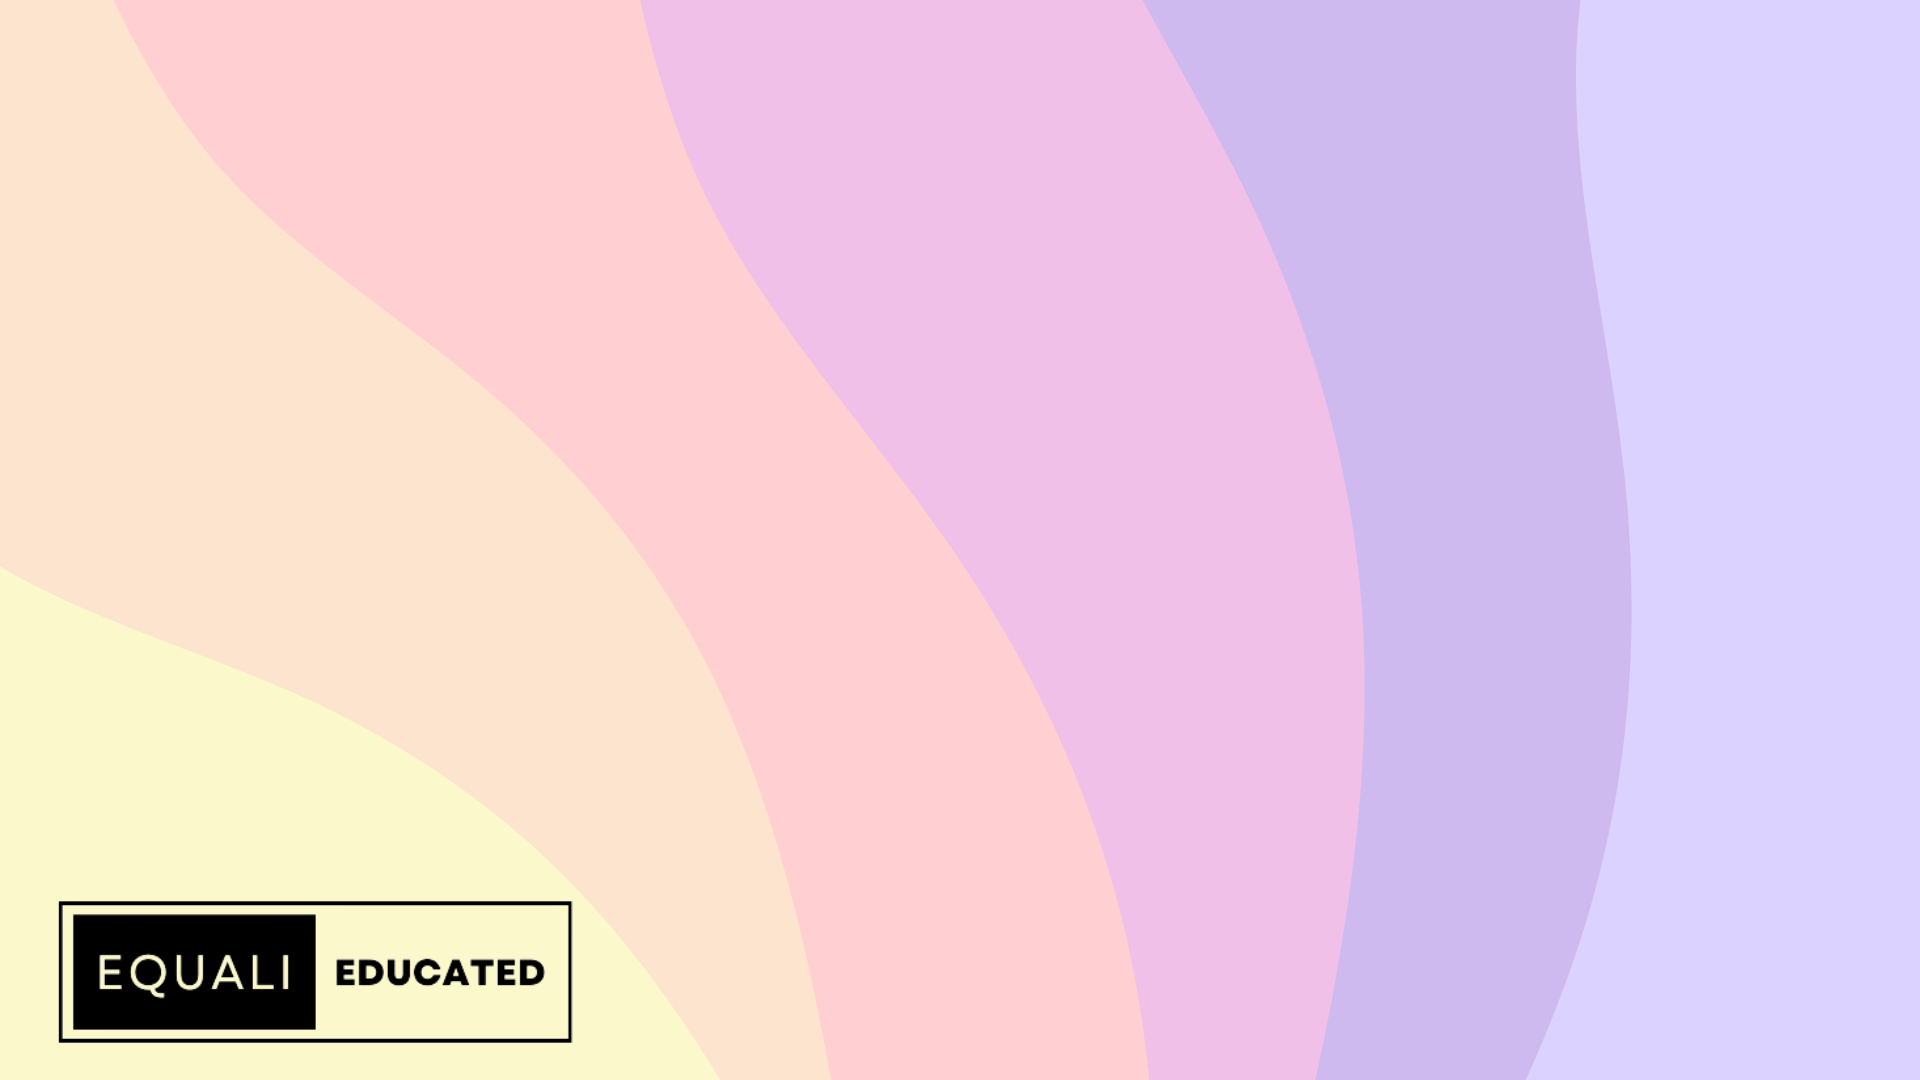
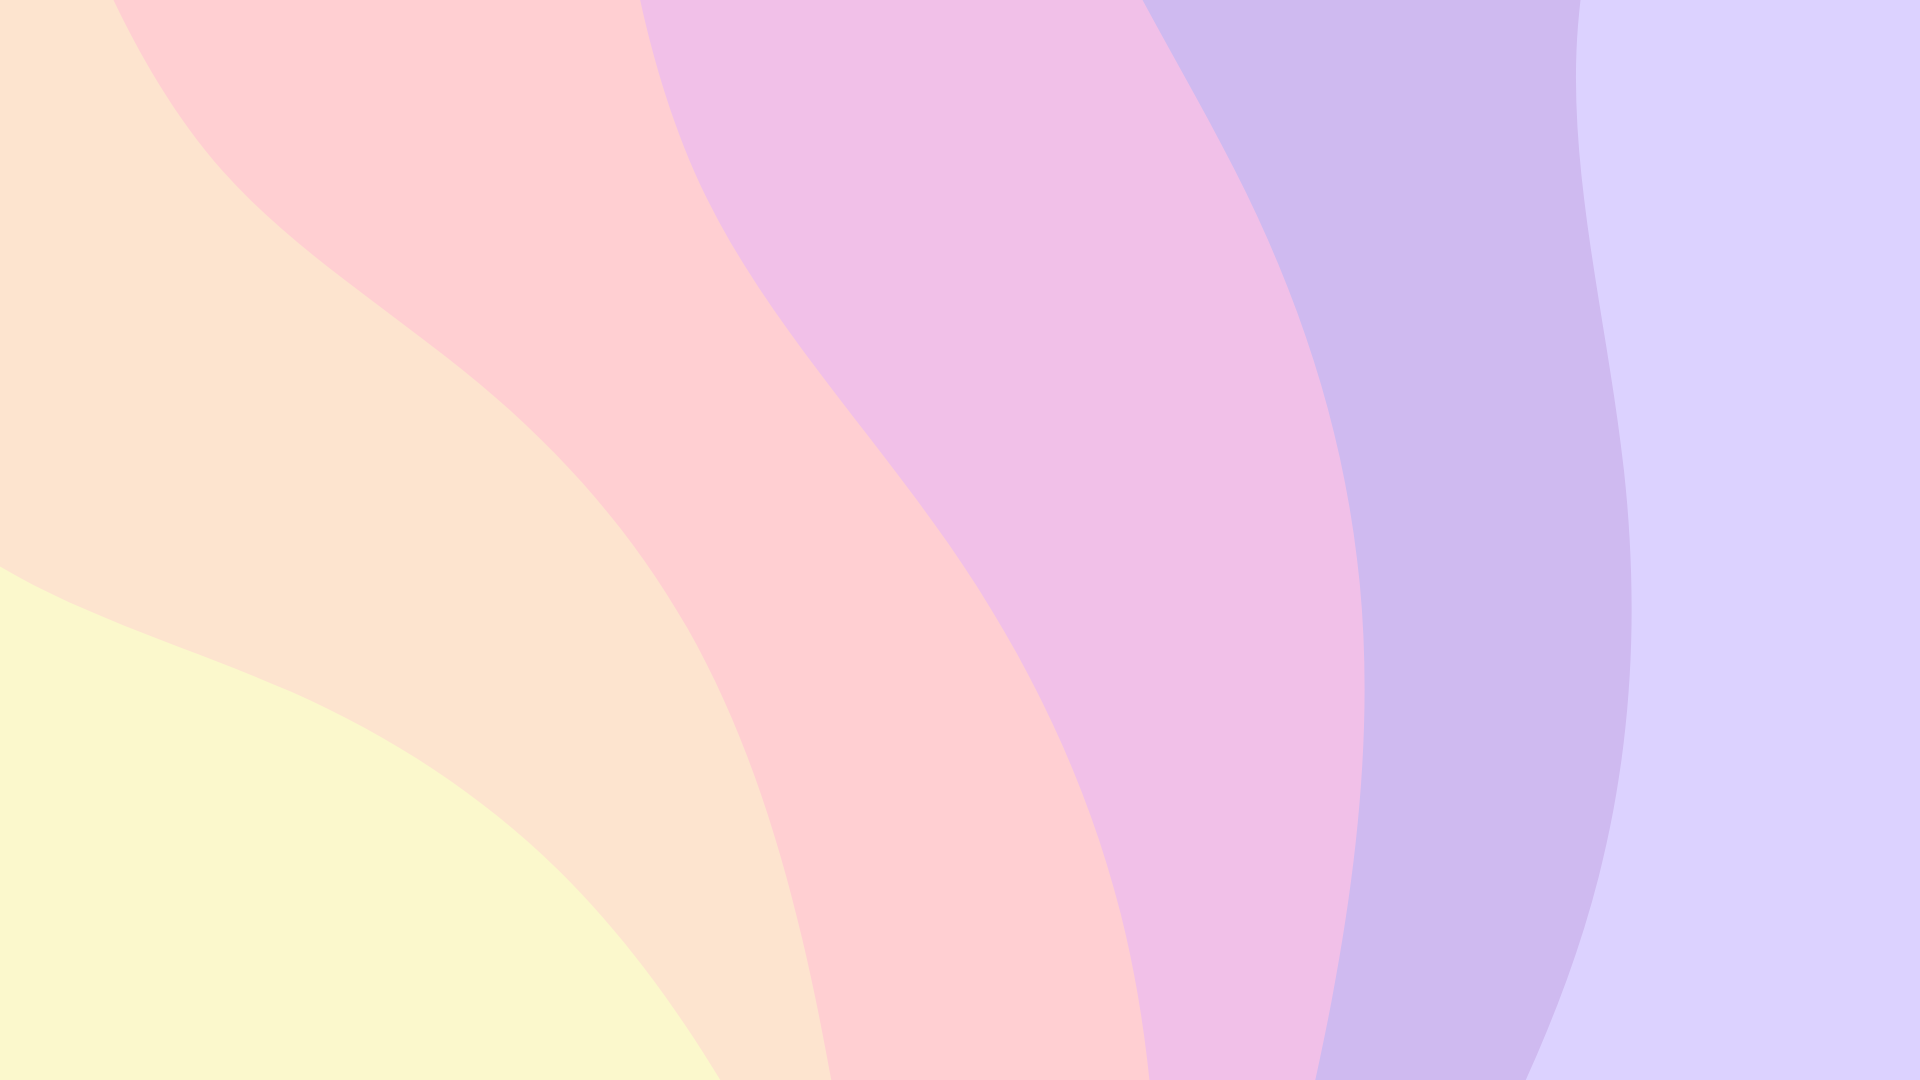
Added background images

Changed region(s): [[0.0312, 0.825, 0.3125, 0.9778]]

diff --git a/src/main/webapp/css/cover.css b/src/main/webapp/css/cover.css
@@ -15,12 +15,14 @@ a, a:focus, a:hover {
 html, body {
   height: 100%;
   background-color: #ccc;
+  background-image: url('../images/hover.png');
+  background-size: cover;
+  background-repeat: no-repeat;
 }
 
 body {
   color: #000;
   text-align: center;
-  text-shadow: 0 1px 3px rgba(0, 0, 0, .5);
 }
 
 /* Extra markup and styles for table-esque vertical and horizontal centering */
@@ -68,7 +70,6 @@ body {
   font-size: 16px;
   font-weight: bold;
   color: #000; /* IE8 proofing */
-  color: rgba(0, 0, 0, .75);
   border-bottom: 2px solid transparent;
 }
 

diff --git a/src/main/webapp/css/profile.css b/src/main/webapp/css/profile.css
@@ -1,0 +1,18 @@
+.profile-head {
+  transform: translateY(5rem)
+}
+
+.cover {
+  background-image: url(https://images.unsplash.com/photo-1530305408560-82d13781b33a?ixlib=rb-1.2.1&ixid=eyJhcHBfaWQiOjEyMDd9&auto=format&fit=crop&w=1352&q=80);
+  background-size: cover;
+  background-repeat: no-repeat;
+  height: 150px;
+}
+
+html, body {
+  height: 100%;
+  background-color: #ccc;
+  background-image: url('../images/profile.png');
+  background-size: cover;
+  background-repeat: no-repeat;
+}

diff --git a/src/main/webapp/css/header.css b/src/main/webapp/css/header.css
@@ -1,0 +1,10 @@
+.navbar-default {
+  background-color: #ec971f !important;;
+  border-color: #ec971f !important;;
+}
+.navbar-default .navbar-brand {
+  color: #000 !important;;
+}
+.navbar-default .navbar-nav>li>a {
+  color: #000 !important;;
+}

diff --git a/src/main/webapp/css/tests.css b/src/main/webapp/css/tests.css
@@ -1,7 +1,7 @@
 html, body {
   height: 100%;
   background-color: #ccc;
-  background-image: url('../images/login.png');
+  background-image: url('../images/profile.png');
   background-size: cover;
   background-repeat: no-repeat;
 }

diff --git a/src/main/webapp/css/courses.css b/src/main/webapp/css/courses.css
@@ -1,0 +1,7 @@
+html, body {
+  height: 100%;
+  background-color: #ccc;
+  background-image: url('../images/profile.png');
+  background-size: cover;
+  background-repeat: no-repeat;
+}

diff --git a/src/main/webapp/css/error.css b/src/main/webapp/css/error.css
@@ -1,0 +1,7 @@
+html, body {
+  height: 100%;
+  background-color: #ccc;
+  background-image: url('../images/error.png');
+  background-size: cover;
+  background-repeat: no-repeat;
+}

diff --git a/src/main/webapp/css/login.css b/src/main/webapp/css/login.css
@@ -1,0 +1,7 @@
+html, body {
+  height: 100%;
+  background-color: #ccc;
+  background-image: url('../images/login.png');
+  background-size: cover;
+  background-repeat: no-repeat;
+}

diff --git a/src/main/java/com/uniweb/controller/ErrorControllerHandler.java b/src/main/java/com/uniweb/controller/ErrorControllerHandler.java
@@ -1,2 +1,27 @@
-package com.uniweb.controller;public class ErrorController {
+package com.uniweb.controller;
+
+import java.io.IOException;
+import javax.servlet.RequestDispatcher;
+import javax.servlet.ServletException;
+import javax.servlet.http.HttpServletRequest;
+import javax.servlet.http.HttpServletResponse;
+import org.springframework.boot.web.servlet.error.ErrorController;
+import org.springframework.stereotype.Controller;
+import org.springframework.web.bind.annotation.RequestMapping;
+
+@Controller
+public class ErrorControllerHandler implements ErrorController {
+
+
+  @RequestMapping("/error")
+  public void handleError(HttpServletRequest req, HttpServletResponse resp) {
+    //do something like logging
+    RequestDispatcher requestDispatcher = req.getRequestDispatcher("views/publicPages/error.jsp");
+    try {
+      requestDispatcher.forward(req, resp);
+    } catch (ServletException | IOException e) {
+      e.printStackTrace();
+    }
+  }
+
 }

diff --git a/src/main/java/com/uniweb/entity/User.java b/src/main/java/com/uniweb/entity/User.java
@@ -48,7 +48,7 @@ public class User {
   @ManyToMany(fetch = FetchType.EAGER, mappedBy = "assignedStudents")
   private Set<Course> courses;
 
-  @ManyToMany(mappedBy = "assignedStudents")
+  @ManyToMany(fetch = FetchType.EAGER, mappedBy = "assignedStudents")
   private List<Test> tests;
 
   public boolean getIsBlocked() {
